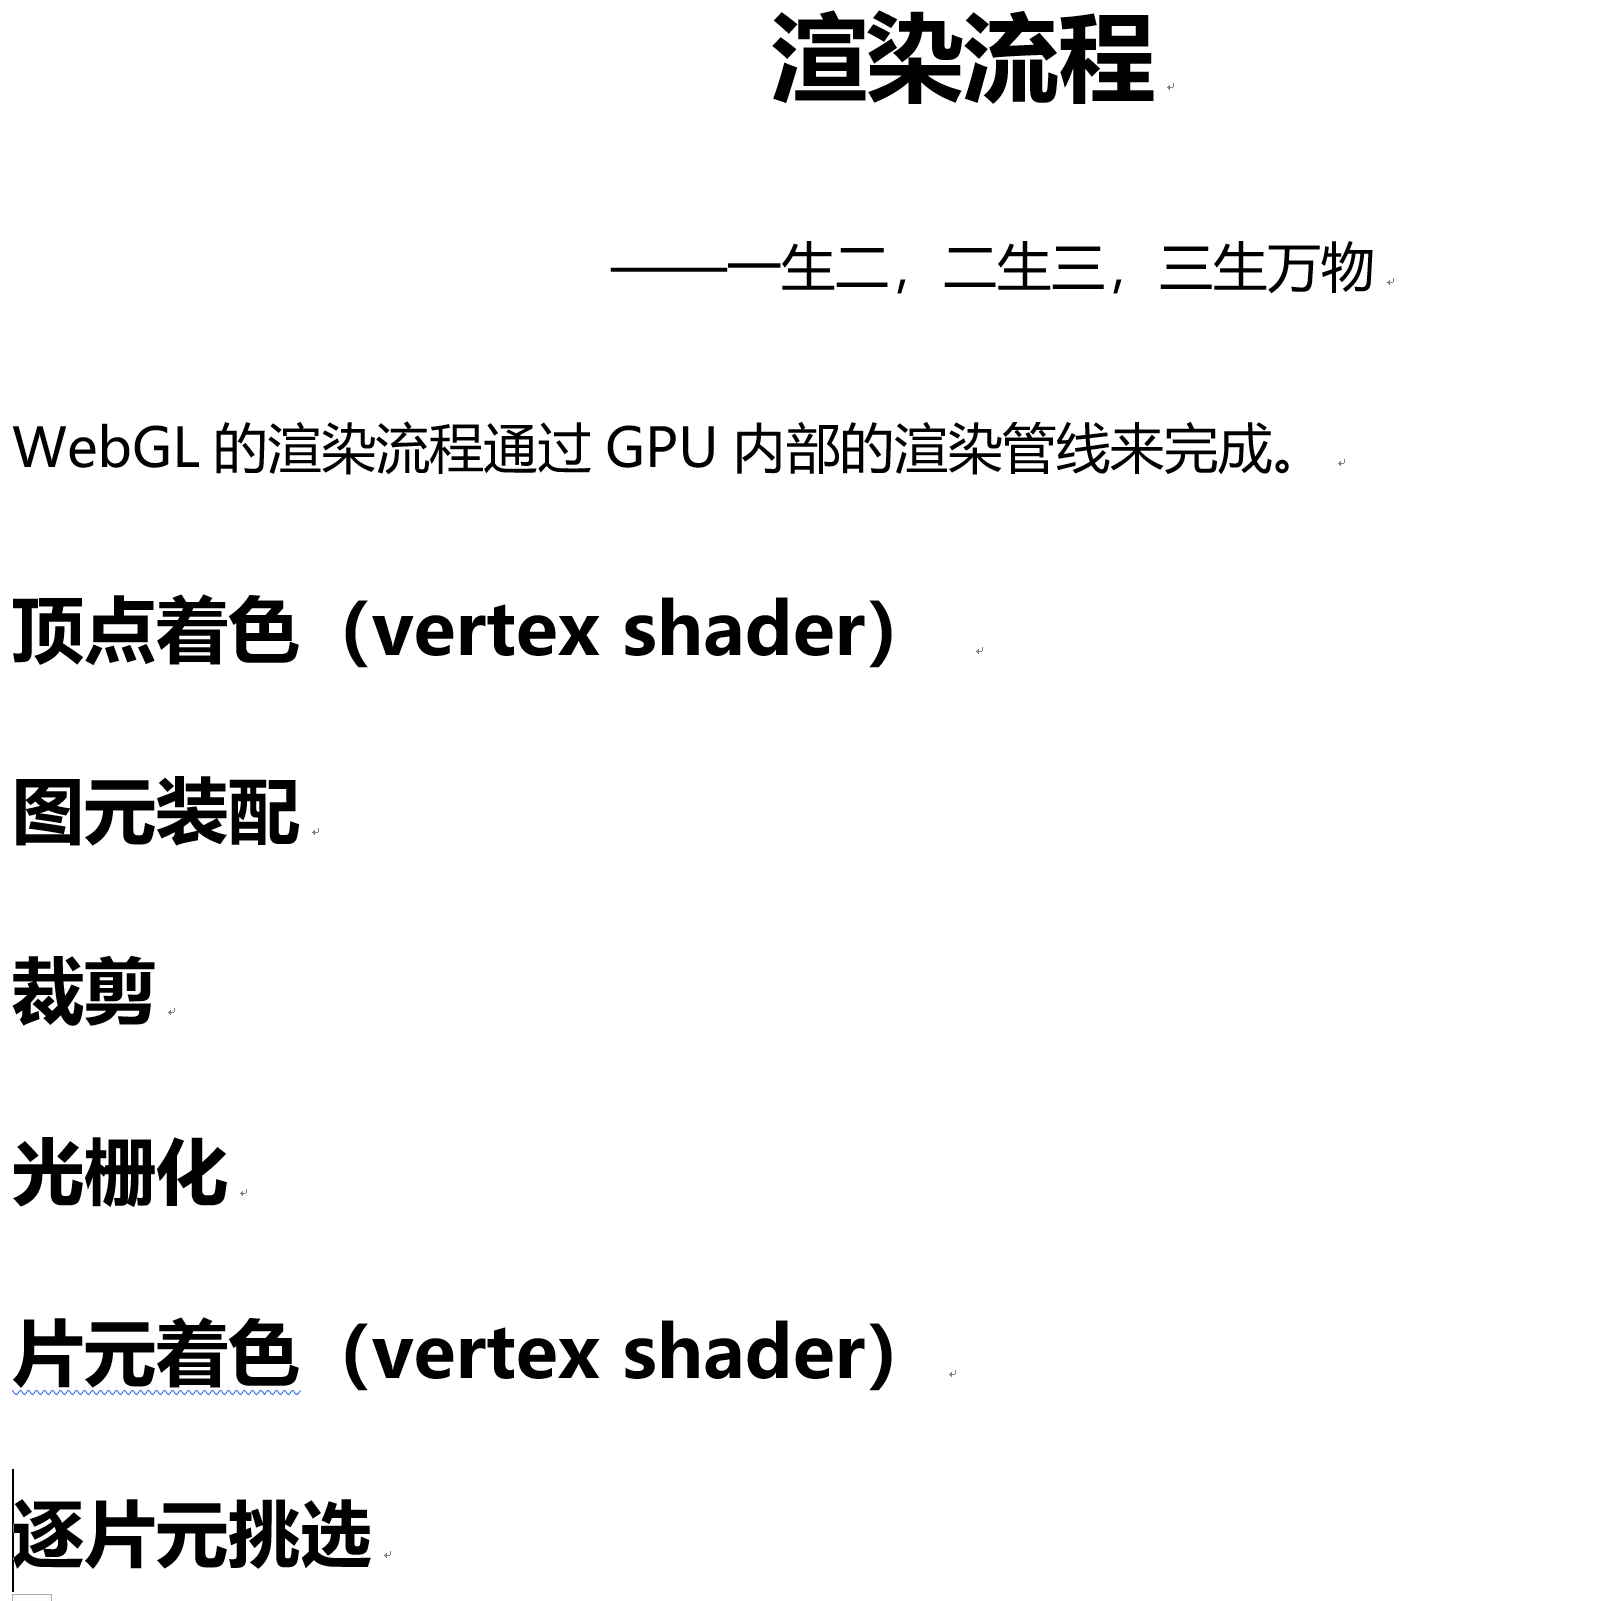
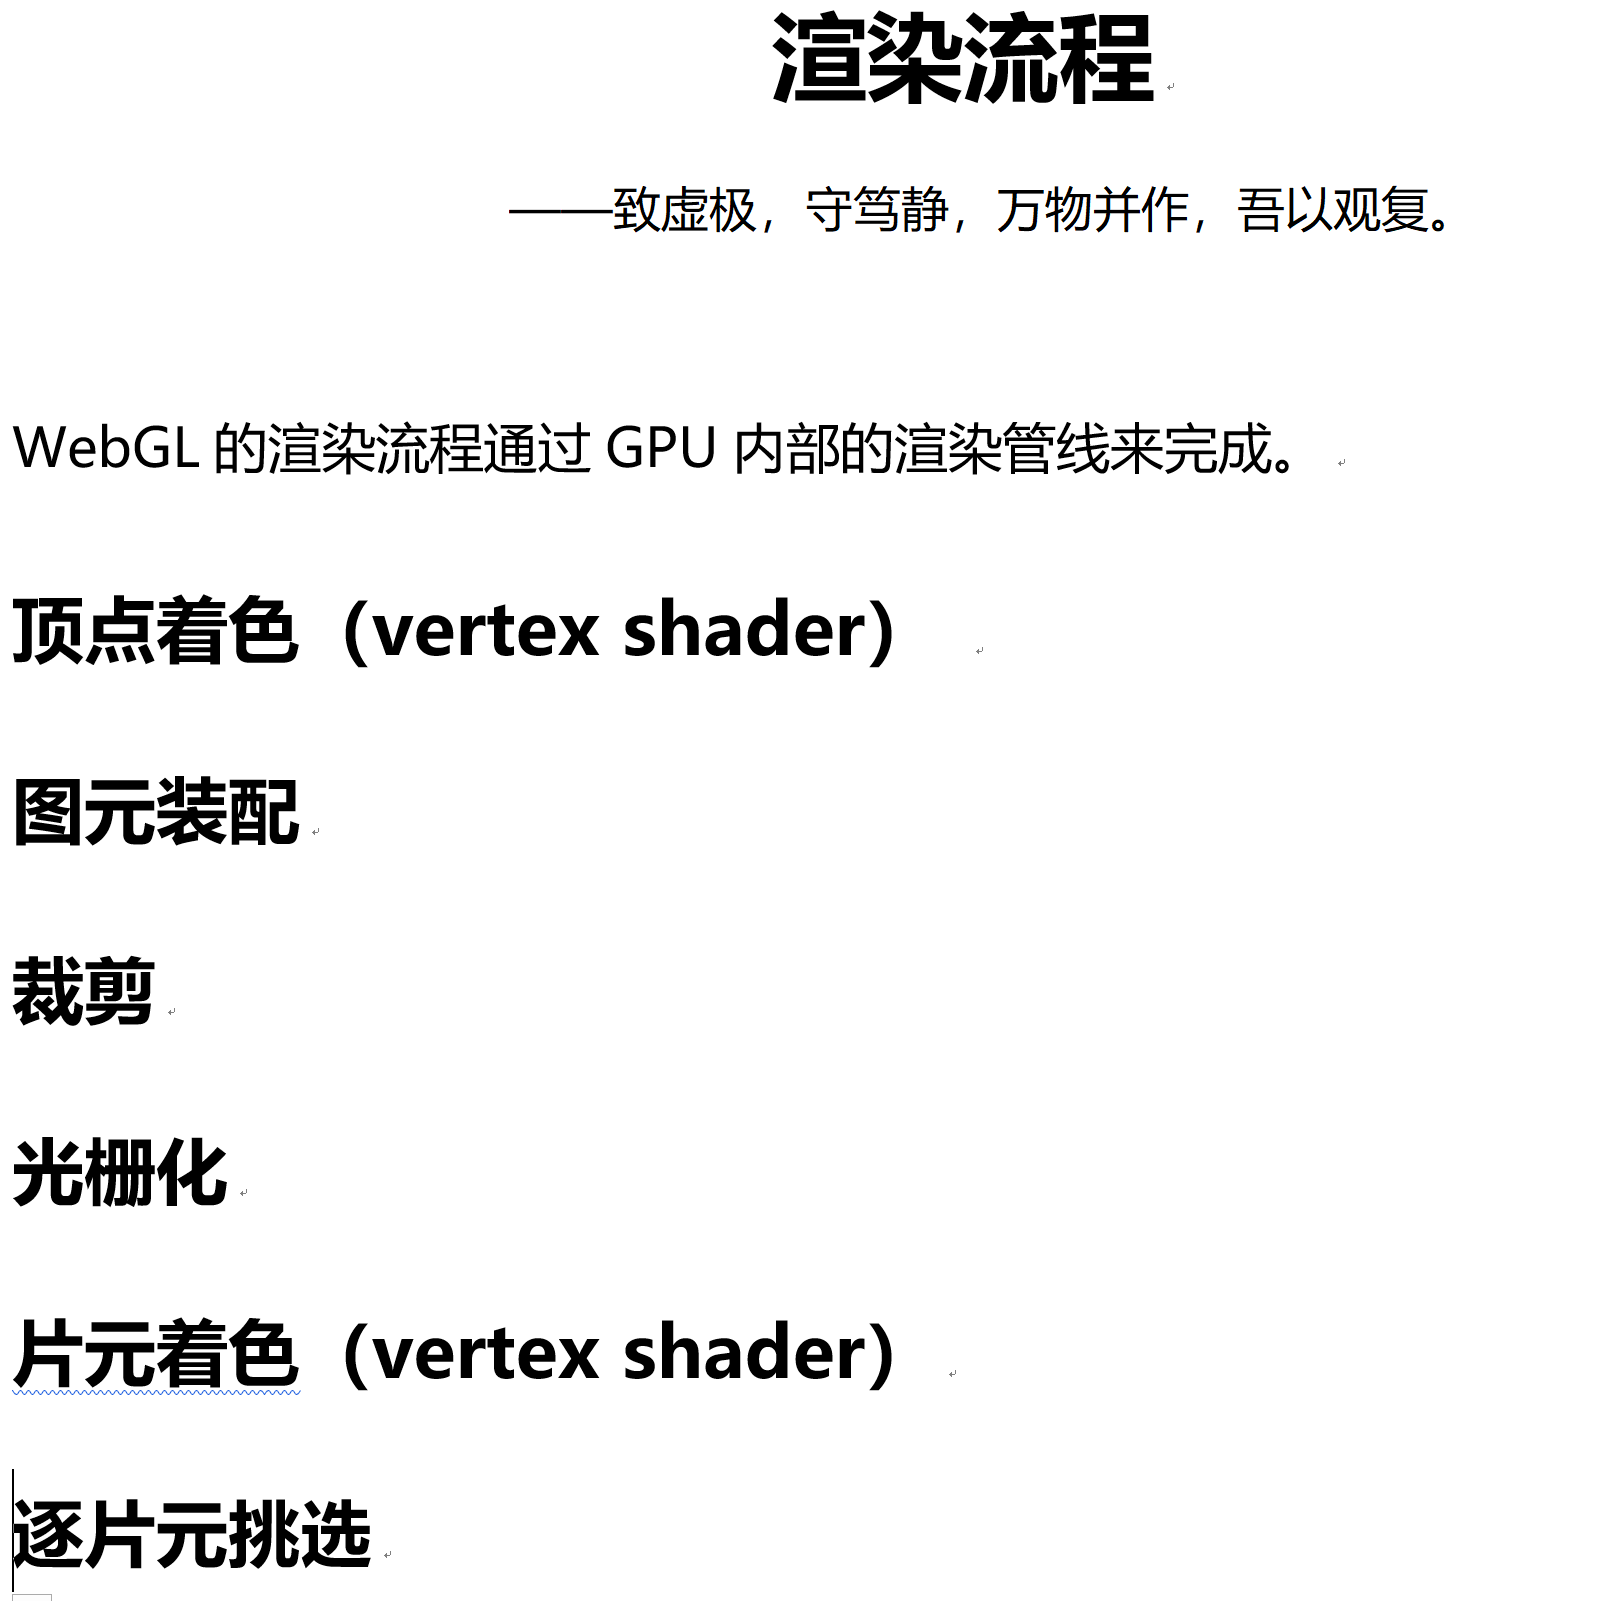
sub title

Changed region(s): [[0.5934, 0.0937, 0.9057, 0.1874], [0.4685, 0.0937, 0.5934, 0.1874], [0.3748, 0.0937, 0.4685, 0.1562]]

diff --git a/chapters/chapter-2.html b/chapters/chapter-2.html
@@ -8,7 +8,7 @@
   
   <body>
     <h1>渲染流程</h1>
-    <p class="sub_title">——一生二，二生三，三生万物</p>
+    <p class="sub_title">——致虚极，守笃静，万物并作，吾以观复/p>
     
     <p>
       WebGL依赖GPU的图形渲染能力，即依赖硬件设备，所以其渲染流程和GPU内部的渲染管线是相符的。渲染管线的作用是将3D模型转换为2维图像。

diff --git a/chapters/chapter-5.html b/chapters/chapter-5.html
@@ -10,7 +10,7 @@
   
   <body>
     <h1>Hello，World</h1>
-    <p class="sub_title">——talk is cheap, show me the code</p>
+    <p class="sub_title">——图难于其易，为大于其细</p>
       <p>
         本节以一个WebGL里的 <a href="./model_mode.php?mode=simple">hello world ——绘制三角形</a>作为展开，从代码的角度揭示WebGL工作的流程。
       </p>
